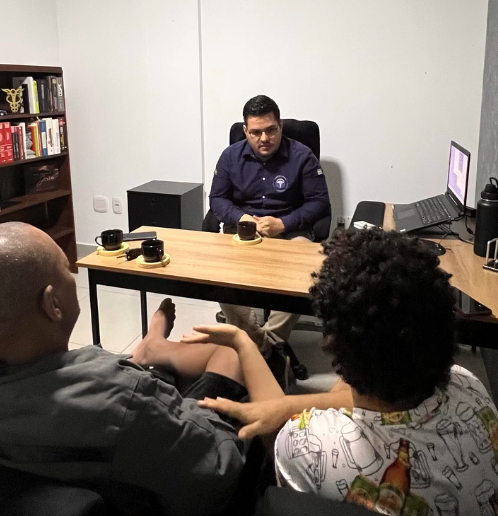
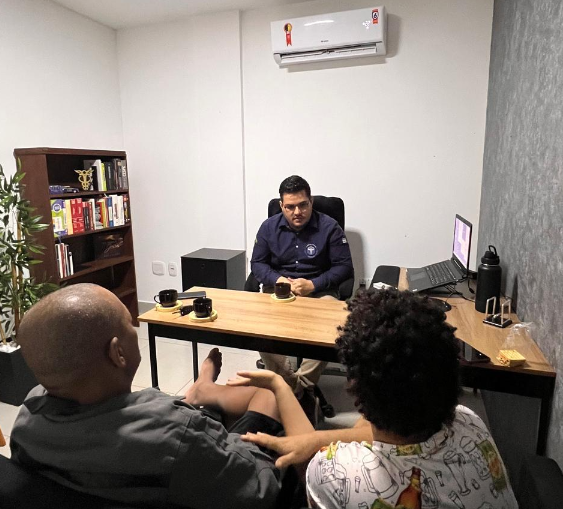
Atualiza fotos de Visibilidade e Decisão no Sistema Kapitalis

diff --git a/src/story/StorySection.test.tsx b/src/story/StorySection.test.tsx
@@ -71,23 +71,26 @@ describe('Kapitalis system story', () => {
     ).toEqual(chapters.map(({ title }) => title))
   })
 
-  it('story_assigns_only_the_three_supplied_media_assets_to_their_chapters', () => {
+  it('story_assigns_the_supplied_media_assets_to_their_chapters', () => {
     const { container } = render(
       <StorySection chapters={currentStory} activeChapterId="entradas" />,
     )
 
     const media = Array.from(container.querySelectorAll('[data-story-media]'))
-    expect(media).toHaveLength(3)
+    expect(media).toHaveLength(4)
     expect(
       media.map((frame) => frame.querySelector('img')?.getAttribute('src')),
     ).toEqual([
       '/editorial/escritorio-entradas.png',
       '/editorial/arte-organizacao-servicos.png',
+      '/editorial/visibilidade-encontro-cutout.png',
       '/editorial/atendimento-decisao.png',
     ])
-    expect(
-      container.querySelector('[data-story-id="visibilidade"] [data-story-media]'),
-    ).toBeNull()
+    const portrait = container.querySelector(
+      '[data-story-id="visibilidade"] [data-story-media]',
+    )
+    expect(portrait?.getAttribute('data-fit')).toBe('contain')
+    expect(portrait?.querySelector('figcaption')).toBeNull()
     expect(container.querySelector('[data-story-id="entradas"] [data-story-media]')
       ?.getAttribute('data-revealed')).toBe('true')
     expect(screen.getByText('Estrutura para acompanhar a rotina de perto.'))

diff --git a/src/story/StorySection.module.css b/src/story/StorySection.module.css
@@ -96,6 +96,29 @@
   text-shadow: 0 1px 8px rgb(0 0 0 / 72%);
 }
 
+.chapter[data-story-id='visibilidade'] .mediaFrame {
+  height: clamp(16rem, 37svh, 24rem);
+  aspect-ratio: auto;
+  background: transparent;
+  clip-path: none;
+}
+
+.chapter[data-story-id='visibilidade'] .mediaPicture {
+  display: flex;
+  align-items: center;
+  justify-content: center;
+}
+
+.chapter[data-story-id='visibilidade'] .mediaImage {
+  width: auto;
+  height: auto;
+  max-width: 100%;
+  max-height: 100%;
+  padding: 0;
+  background: transparent;
+  mask-image: linear-gradient(to bottom, #000 72%, transparent 100%);
+}
+
 .chapterEyebrow {
   margin-bottom: var(--space-4);
   color: var(--color-gold-soft);
